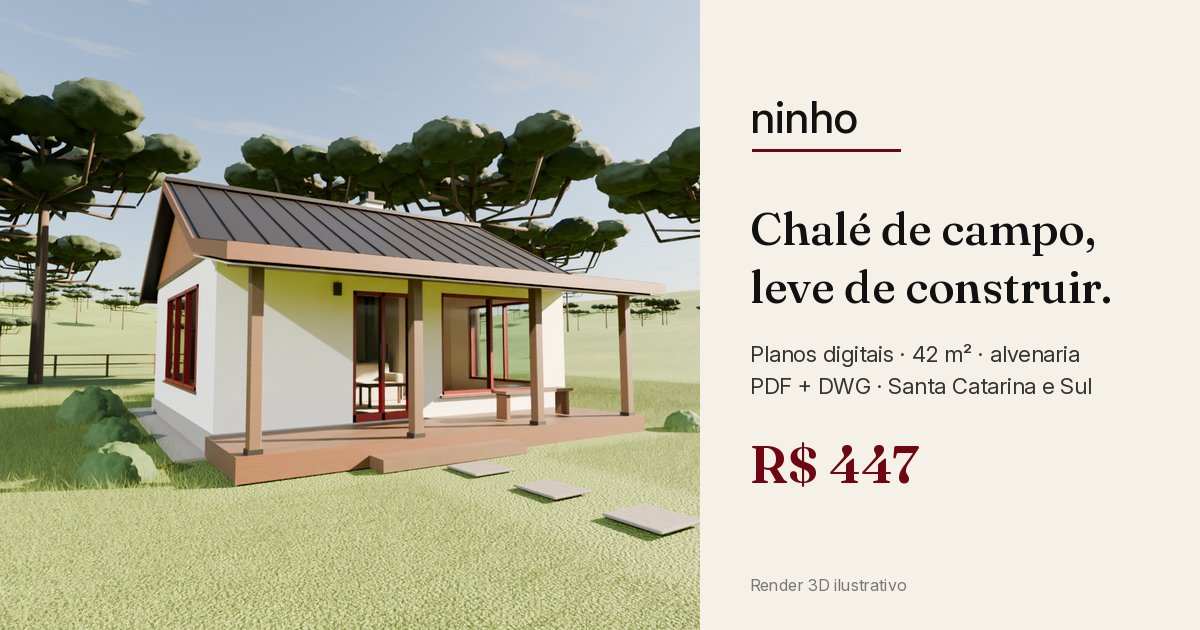
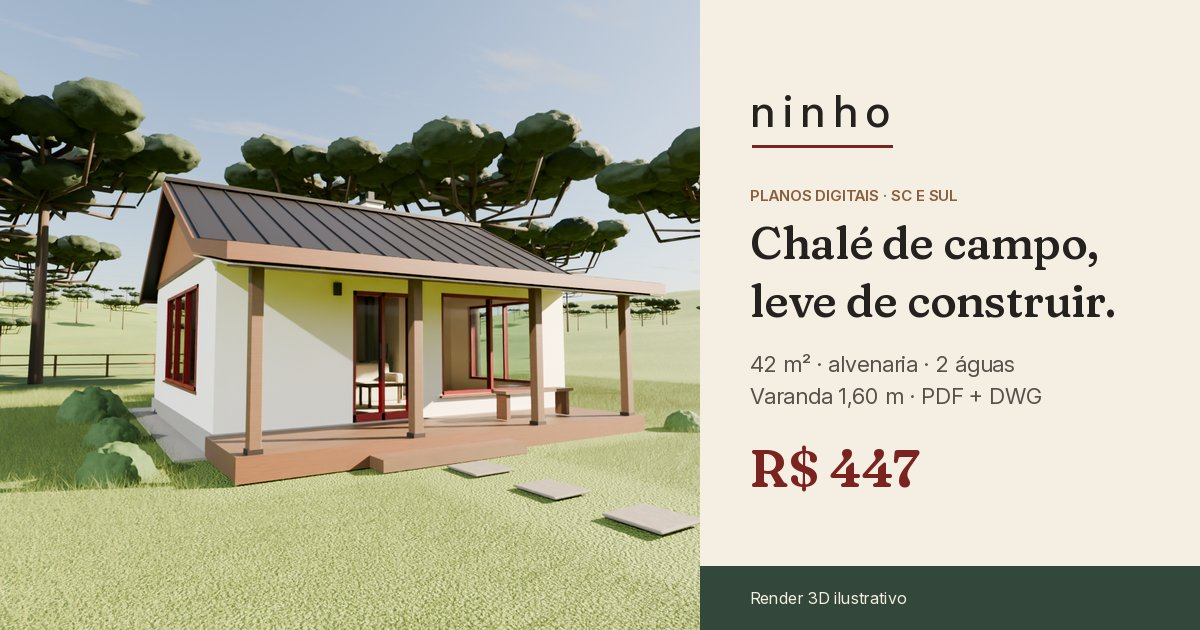
Aplica paleta A Esquadria (identidade v2)
- Cores: creme-linho #F4EEE3, basalto #24211E, vinho-esquadria #7A2320 (CTA),
  pinhão #8B5E3C (rótulos), araucária #33473A (seção 'O que não vem', ícones, rodapé),
  neblina #DCD8CF (divisores); Fraunces SOFT 100 nos títulos
- og-image, favicons, logo-mark e planta recoloridos
- Acessibilidade: borda/placeholder do formulário, overlay do CTA final no mobile (WCAG AA)
- Conteúdo, CTAs (DM @ninhocampo) e CHECKOUT_URL vazio inalterados

diff --git a/index.html b/index.html
@@ -1,11 +1,12 @@
 <!doctype html>
+<!-- Paleta A Esquadria (identidade v2) · publicada 05/10/2026 · backup da versão anterior: tag pre-esquadria-2026-10-05 -->
 <html lang="pt-BR">
 <head>
 <meta charset="utf-8">
 <meta name="viewport" content="width=device-width, initial-scale=1">
 <title>ninho · Chalé de campo, leve de construir. Planos digitais 42 m² · R$ 447</title>
 <meta name="description" content="Planos digitais de chalé de campo de 42 m² em alvenaria, pensado para Santa Catarina e o Sul. Arquitetônico, estrutural, fundação, elétrico e hidrossanitário em PDF + DWG. R$ 447.">
-<meta name="theme-color" content="#F5F0E8">
+<meta name="theme-color" content="#F4EEE3">
 <link rel="canonical" href="https://vinicius559.github.io/Ninho-chale/">
 
 <!-- Open Graph / redes -->
@@ -31,7 +32,7 @@
 
 <link rel="preconnect" href="https://fonts.googleapis.com">
 <link rel="preconnect" href="https://fonts.gstatic.com" crossorigin>
-<link rel="stylesheet" href="https://fonts.googleapis.com/css2?family=Fraunces:opsz,wght@9..144,400;9..144,500;9..144,600&family=Inter:wght@400;500;600&display=swap">
+<link rel="stylesheet" href="https://fonts.googleapis.com/css2?family=Fraunces:opsz,wght,SOFT@9..144,400..600,0..100&family=Inter:wght@400;500;600&display=swap">
 <link rel="preload" as="image" href="img/fachada-640.webp" imagesrcset="img/fachada-640.webp 640w, img/fachada-1080.webp 1080w" imagesizes="(min-width: 900px) 46vw, 100vw">
 
 <!--
@@ -47,7 +48,9 @@
 </script>
 
 <style>
-:root{--ink:#111111;--wine:#6F0712;--cream:#F5F0E8;--paper:#FBF8F3;--line:#E2DACD;--muted:#5b554d;
+/* Paleta A · Esquadria (identidade v2, aprovada 05/10/2026) */
+:root{--ink:#24211E;--wine:#7A2320;--wine-d:#5E1A18;--cream:#F4EEE3;--paper:#FAF6EF;--line:#DCD8CF;--muted:#57514A;
+  --pinhao:#8B5E3C;--araucaria:#33473A;--neblina:#DCD8CF;--on-dark:#E6E0D3;--pinhao-l:#E3C4A0;
   --serif:"Fraunces",Georgia,"Times New Roman",serif;--sans:"Inter",system-ui,-apple-system,"Segoe UI",Roboto,Arial,sans-serif;
   --wrap:1120px;--r:14px}
 *{box-sizing:border-box}
@@ -55,21 +58,21 @@ html{scroll-behavior:smooth;-webkit-text-size-adjust:100%}
 body{margin:0;background:var(--cream);color:var(--ink);font:400 17px/1.6 var(--sans);-webkit-font-smoothing:antialiased}
 img{max-width:100%;height:auto;display:block}
 a{color:inherit}
-h1,h2,h3{font-family:var(--serif);font-weight:500;line-height:1.12;letter-spacing:-.01em;margin:0 0 .5em}
+h1,h2,h3{font-family:var(--serif);font-variation-settings:"SOFT" 100;font-weight:500;line-height:1.12;letter-spacing:-.01em;margin:0 0 .5em}
 h1{font-size:clamp(2.3rem,7.5vw,4rem)}
 h2{font-size:clamp(1.8rem,5vw,2.7rem)}
 h3{font-size:1.25rem}
 p{margin:0 0 1em}
 .wrap{max-width:var(--wrap);margin:0 auto;padding:0 20px}
 section{padding:64px 0}
-.eyebrow{font:600 .78rem/1 var(--sans);letter-spacing:.14em;text-transform:uppercase;color:var(--wine);margin:0 0 14px}
+.eyebrow{font:600 .78rem/1 var(--sans);letter-spacing:.14em;text-transform:uppercase;color:var(--pinhao);margin:0 0 14px}
 .lead{font-size:1.1rem;color:var(--muted);max-width:40em}
 .muted{color:var(--muted)}
 .small{font-size:.86rem}
 .skip{position:absolute;left:-999px}.skip:focus{left:12px;top:12px;background:#fff;padding:8px 12px;z-index:9}
 
 /* header */
-.top{position:sticky;top:0;z-index:5;background:rgba(245,240,232,.92);backdrop-filter:saturate(1.2) blur(8px);border-bottom:1px solid transparent}
+.top{position:sticky;top:0;z-index:5;background:rgba(244,238,227,.92);backdrop-filter:saturate(1.2) blur(8px);border-bottom:1px solid transparent}
 .top .wrap{display:flex;align-items:center;justify-content:space-between;height:60px}
 .brand{display:flex;align-items:center;gap:10px;text-decoration:none}
 .brand svg{width:38px;height:27px;color:var(--ink)}
@@ -83,9 +86,10 @@ section{padding:64px 0}
   font:600 1rem/1 var(--sans);text-decoration:none;border:1.5px solid var(--wine);cursor:pointer;transition:transform .15s,background .15s}
 .btn:active{transform:scale(.98)}
 .btn-primary{background:var(--wine);color:#fff}
-.btn-primary:hover{background:#560510}
+.btn-primary:hover{background:var(--wine-d);border-color:var(--wine-d)}
 .btn-ghost{background:transparent;color:var(--wine)}
-.btn-ghost:hover{background:rgba(111,7,18,.06)}
+.btn-ghost:hover{background:rgba(122,35,32,.07)}
+.btn:focus-visible{outline:3px solid var(--araucaria);outline-offset:3px}
 .btn svg{width:20px;height:20px}
 .ctas{display:flex;flex-wrap:wrap;gap:12px;margin:26px 0 14px}
 .ctas .btn{flex:1 1 220px}
@@ -94,7 +98,7 @@ section{padding:64px 0}
 .hero{padding:0 0 56px}
 .hero-img{margin:0 -20px 28px;position:relative}
 .hero-img img{width:100%;aspect-ratio:4/4.2;object-fit:cover;object-position:50% 40%}
-.tag3d{position:absolute;left:12px;bottom:12px;background:rgba(17,17,17,.62);color:#fff;font-size:.72rem;letter-spacing:.04em;padding:5px 9px;border-radius:999px}
+.tag3d{position:absolute;left:12px;bottom:12px;background:rgba(36,33,30,.84);color:#fff;font-size:.72rem;letter-spacing:.04em;padding:5px 9px;border-radius:999px}
 .facts{display:flex;flex-wrap:wrap;gap:8px;margin:18px 0 0;padding:0;list-style:none}
 .facts li{border:1px solid var(--line);background:var(--paper);border-radius:999px;padding:6px 13px;font-size:.88rem}
 .price-inline{font-family:var(--serif);font-size:1.5rem;color:var(--wine);font-weight:600}
@@ -105,9 +109,11 @@ section{padding:64px 0}
 .card{background:#fff;border:1px solid var(--line);border-radius:var(--r);padding:22px}
 .card h3{margin-bottom:.3em}
 .card p{margin:0;color:var(--muted);font-size:.96rem}
-.num{display:inline-flex;width:30px;height:30px;border-radius:50%;background:var(--wine);color:#fff;font:600 .85rem/30px var(--sans);justify-content:center;margin-bottom:12px}
+.num{display:inline-flex;width:30px;height:30px;border-radius:50%;background:var(--araucaria);color:#fff;font:600 .85rem/30px var(--sans);justify-content:center;margin-bottom:12px}
 .files{display:flex;gap:10px;flex-wrap:wrap;margin-top:22px}
 .files span{font:600 .85rem/1 var(--sans);letter-spacing:.06em;padding:10px 14px;border-radius:8px;background:var(--ink);color:var(--cream)}
+.card.card-dark{background:var(--ink);color:var(--cream);border-color:var(--ink);border-top:4px solid var(--pinhao)}
+.card.card-dark p{color:var(--on-dark)}
 
 /* planta */
 .plan-fig{background:var(--cream);border:1px solid var(--line);border-radius:var(--r);overflow:hidden;margin:0}
@@ -119,33 +125,33 @@ section{padding:64px 0}
 /* galeria */
 .gallery{display:flex;gap:12px;overflow-x:auto;scroll-snap-type:x mandatory;padding:4px 20px 14px;margin:0 -20px;-webkit-overflow-scrolling:touch;scrollbar-width:thin}
 .gallery figure{flex:0 0 78%;scroll-snap-align:center;margin:0}
-.gallery img{border-radius:var(--r);aspect-ratio:4/5;object-fit:cover;width:100%;background:#e9e2d6}
+.gallery img{border-radius:var(--r);aspect-ratio:4/5;object-fit:cover;width:100%;background:var(--neblina)}
 .g-note{display:none}
 .gallery figcaption{font-size:.86rem;color:var(--muted);margin-top:8px}
 
 /* para quem */
 .check{list-style:none;padding:0;margin:0}
 .check li{position:relative;padding:10px 0 10px 34px;border-bottom:1px solid var(--line)}
-.check li:before{content:"";position:absolute;left:4px;top:17px;width:14px;height:8px;border-left:2px solid var(--wine);border-bottom:2px solid var(--wine);transform:rotate(-45deg)}
+.check li:before{content:"";position:absolute;left:4px;top:17px;width:14px;height:8px;border-left:2px solid var(--araucaria);border-bottom:2px solid var(--araucaria);transform:rotate(-45deg)}
 .check.no li:before{border:0;width:14px;height:2px;background:var(--ink);transform:none;top:22px}
 
 /* passos */
 .steps{counter-reset:s;list-style:none;padding:0;margin:0;display:grid;gap:14px}
 .steps li{background:#fff;border:1px solid var(--line);border-radius:var(--r);padding:20px 20px 20px 70px;position:relative}
-.steps li:before{counter-increment:s;content:counter(s);position:absolute;left:20px;top:18px;font:500 1.8rem/1 var(--serif);color:var(--wine)}
+.steps li:before{counter-increment:s;content:counter(s);position:absolute;left:20px;top:18px;font:500 1.8rem/1 var(--serif);font-variation-settings:"SOFT" 100;color:var(--pinhao)}
 .steps b{display:block;font-weight:600;margin-bottom:2px}
 .steps p{margin:0;color:var(--muted);font-size:.95rem}
 
 /* não vem */
-.dark{background:var(--ink);color:var(--cream)}
-.dark .eyebrow{color:#e7a7ae}
-.dark .lead,.dark .muted{color:#cfc8bd}
-.dark .check li{border-color:#2c2c2c}
+.dark{background:var(--araucaria);color:var(--cream)}
+.dark .eyebrow{color:var(--pinhao-l)}
+.dark .lead,.dark .muted{color:var(--on-dark)}
+.dark .check li{border-color:rgba(244,238,227,.18)}
 .dark .check.no li:before{background:var(--cream)}
-.note{border-left:3px solid var(--wine);padding:14px 18px;background:rgba(255,255,255,.05);border-radius:0 10px 10px 0;margin-top:24px}
+.note{border-left:3px solid var(--pinhao-l);padding:14px 18px;background:rgba(0,0,0,.14);border-radius:0 10px 10px 0;margin-top:24px}
 
 /* preço */
-.price-box{background:#fff;border:1px solid var(--line);border-radius:22px;padding:30px 22px;max-width:560px;margin:0 auto;text-align:center;box-shadow:0 10px 40px -20px rgba(17,17,17,.25)}
+.price-box{background:#fff;border:1px solid var(--line);border-radius:22px;padding:30px 22px;max-width:560px;margin:0 auto;text-align:center;box-shadow:0 10px 40px -20px rgba(36,33,30,.28);border-top:4px solid var(--wine)}
 .price{font:600 clamp(3.2rem,12vw,4.4rem)/1 var(--serif);color:var(--wine);margin:8px 0 6px}
 .price-box .check{text-align:left;margin:22px 0 4px}
 .status{display:inline-block;font-size:.8rem;font-weight:600;letter-spacing:.04em;background:var(--cream);border:1px solid var(--line);border-radius:999px;padding:6px 12px}
@@ -153,7 +159,8 @@ section{padding:64px 0}
 /* lista de espera */
 .wait{margin-top:28px;padding-top:24px;border-top:1px dashed var(--line);text-align:left}
 .wait label{display:block;font-size:.85rem;font-weight:500;margin:12px 0 6px}
-.wait input{width:100%;min-height:48px;border:1px solid #cfc6b8;border-radius:10px;padding:0 14px;font:inherit;background:var(--paper)}
+.wait input{width:100%;min-height:48px;border:1px solid #857E75;border-radius:10px;padding:0 14px;font:inherit;background:var(--paper)}
+.wait input::placeholder{color:#6B655D;opacity:1}
 .wait input:focus{outline:2px solid var(--wine);outline-offset:1px;border-color:transparent}
 .wait .btn{width:100%;margin-top:16px}
 
@@ -166,23 +173,25 @@ section{padding:64px 0}
 .faq details p{color:var(--muted);margin:0 0 16px}
 
 /* cta final */
-.final{position:relative;color:#fff;padding:0;overflow:hidden;background:#1b1712}
+.final{position:relative;color:#fff;padding:0;overflow:hidden;background:var(--ink)}
 .final img{position:absolute;inset:0;width:100%;height:100%;object-fit:cover;object-position:50% 45%;opacity:.6}
-.final:after{content:"";position:absolute;inset:0;background:linear-gradient(90deg,rgba(17,17,17,.85) 0%,rgba(17,17,17,.55) 55%,rgba(17,17,17,.15) 100%)}
+.final:after{content:"";position:absolute;inset:0;background:linear-gradient(90deg,rgba(36,33,30,.88) 0%,rgba(36,33,30,.6) 55%,rgba(36,33,30,.15) 100%)}
 .final .wrap{z-index:1}
+@media (max-width:899px){.final:after{background:linear-gradient(180deg,rgba(36,33,30,.66) 0%,rgba(36,33,30,.86) 40%,rgba(36,33,30,.9) 100%)}}
 .final .wrap{position:relative;padding-top:110px;padding-bottom:90px}
 .final h2{color:#fff;max-width:14em}
-.final p{color:#eee6da;max-width:34em}
+.final p{color:var(--on-dark);max-width:34em}
+.final .eyebrow{color:var(--pinhao-l)}
 .final .btn-ghost{color:#fff;border-color:#fff}
 .final .btn-ghost:hover{background:rgba(255,255,255,.1)}
 
-footer{padding:40px 0 60px;font-size:.88rem;color:var(--muted)}
+footer{padding:40px 0 60px;font-size:.88rem;color:var(--muted);border-top:4px solid var(--araucaria)}
 footer .brand span{font-size:1.1rem}
 footer a{color:var(--ink)}
 .legal{margin-top:18px;max-width:60em;font-size:.8rem}
 
 /* barra fixa mobile */
-.sticky-cta{position:fixed;left:0;right:0;bottom:0;z-index:6;padding:10px 14px calc(10px + env(safe-area-inset-bottom));background:rgba(245,240,232,.96);border-top:1px solid var(--line);display:flex;gap:10px;align-items:center;transform:translateY(110%);transition:transform .25s}
+.sticky-cta{position:fixed;left:0;right:0;bottom:0;z-index:6;padding:10px 14px calc(10px + env(safe-area-inset-bottom));background:rgba(244,238,227,.96);border-top:1px solid var(--line);display:flex;gap:10px;align-items:center;transform:translateY(110%);transition:transform .25s}
 .sticky-cta.on{transform:none}
 .sticky-cta .p{font:600 1.2rem/1 var(--serif);color:var(--wine);white-space:nowrap}
 .sticky-cta .btn{flex:1;min-height:46px}
@@ -222,7 +231,7 @@ footer a{color:var(--ink)}
 <header class="top">
   <div class="wrap">
     <a class="brand" href="#" aria-label="ninho — início">
-      <svg viewBox="24 30 72 50" aria-hidden="true"><path d="M28 62 C36 78, 84 78, 92 62" fill="none" stroke="currentColor" stroke-width="4.5" stroke-linecap="round"/><path d="M34 54 C40 66, 80 66, 86 54" fill="none" stroke="currentColor" stroke-width="3.5" stroke-linecap="round"/><path d="M42 48 C48 56, 72 56, 78 48" fill="none" stroke="currentColor" stroke-width="3" stroke-linecap="round"/><path d="M52 46 L60 36 L68 46" fill="none" stroke="#6F0712" stroke-width="3" stroke-linecap="round" stroke-linejoin="round"/><rect x="54" y="46" width="12" height="10" fill="none" stroke="#6F0712" stroke-width="2.5"/></svg>
+      <svg viewBox="24 30 72 50" aria-hidden="true"><path d="M28 62 C36 78, 84 78, 92 62" fill="none" stroke="currentColor" stroke-width="4.5" stroke-linecap="round"/><path d="M34 54 C40 66, 80 66, 86 54" fill="none" stroke="currentColor" stroke-width="3.5" stroke-linecap="round"/><path d="M42 48 C48 56, 72 56, 78 48" fill="none" stroke="currentColor" stroke-width="3" stroke-linecap="round"/><path d="M52 46 L60 36 L68 46" fill="none" stroke="#7A2320" stroke-width="3" stroke-linecap="round" stroke-linejoin="round"/><rect x="54" y="46" width="12" height="10" fill="none" stroke="#7A2320" stroke-width="2.5"/></svg>
       <span>ninho</span>
     </a>
     <nav aria-label="Seções">
@@ -280,7 +289,7 @@ footer a{color:var(--ink)}
       <div class="card"><span class="num">3</span><h3>Fundação</h3><p>Proposta de fundação para o chalé e a varanda, para o RT local conferir com o solo do seu terreno.</p></div>
       <div class="card"><span class="num">4</span><h3>Elétrico</h3><p>Quadro, pontos de luz, tomadas e circuitos.</p></div>
       <div class="card"><span class="num">5</span><h3>Hidrossanitário</h3><p>Água fria, esgoto e ventilação do banheiro e da pia da cozinha.</p></div>
-      <div class="card" style="background:var(--ink);color:var(--cream);border-color:var(--ink)"><h3>Formatos</h3><p style="color:#cfc8bd">PDF para ler e imprimir. DWG para o seu responsável técnico abrir e ajustar no CAD.</p>
+      <div class="card card-dark"><h3>Formatos</h3><p>PDF para ler e imprimir. DWG para o seu responsável técnico abrir e ajustar no CAD.</p>
         <div class="files"><span style="background:var(--wine)">PDF</span><span style="background:var(--cream);color:var(--ink)">DWG</span></div></div>
     </div>
   </div>
@@ -456,14 +465,14 @@ footer a{color:var(--ink)}
 <section class="final" aria-labelledby="final-h">
   <img src="img/entardecer-1080.webp" width="1080" height="1350" loading="lazy" alt="" aria-hidden="true">
   <div class="wrap">
-    <p class="eyebrow" style="color:#f0c2c7">ninho · R$ 447</p>
+    <p class="eyebrow">ninho · R$ 447</p>
     <h2 id="final-h">Comece o seu chalé pelo projeto.</h2>
     <p>42 m² em alvenaria, varanda de 1,60 m e cinco projetos em PDF + DWG para levar ao responsável técnico da sua cidade.</p>
     <div class="ctas" style="max-width:520px">
       <a class="btn btn-primary" href="https://ig.me/m/ninhocampo" target="_blank" rel="noopener" data-track="Contact">Quero o pacote</a>
       <a class="btn btn-ghost" href="#lista">Lista de espera</a>
     </div>
-    <p class="small" style="opacity:.8">Imagem: render 3D ilustrativo.</p>
+    <p class="small" style="opacity:.9">Imagem: render 3D ilustrativo.</p>
   </div>
 </section>
 
